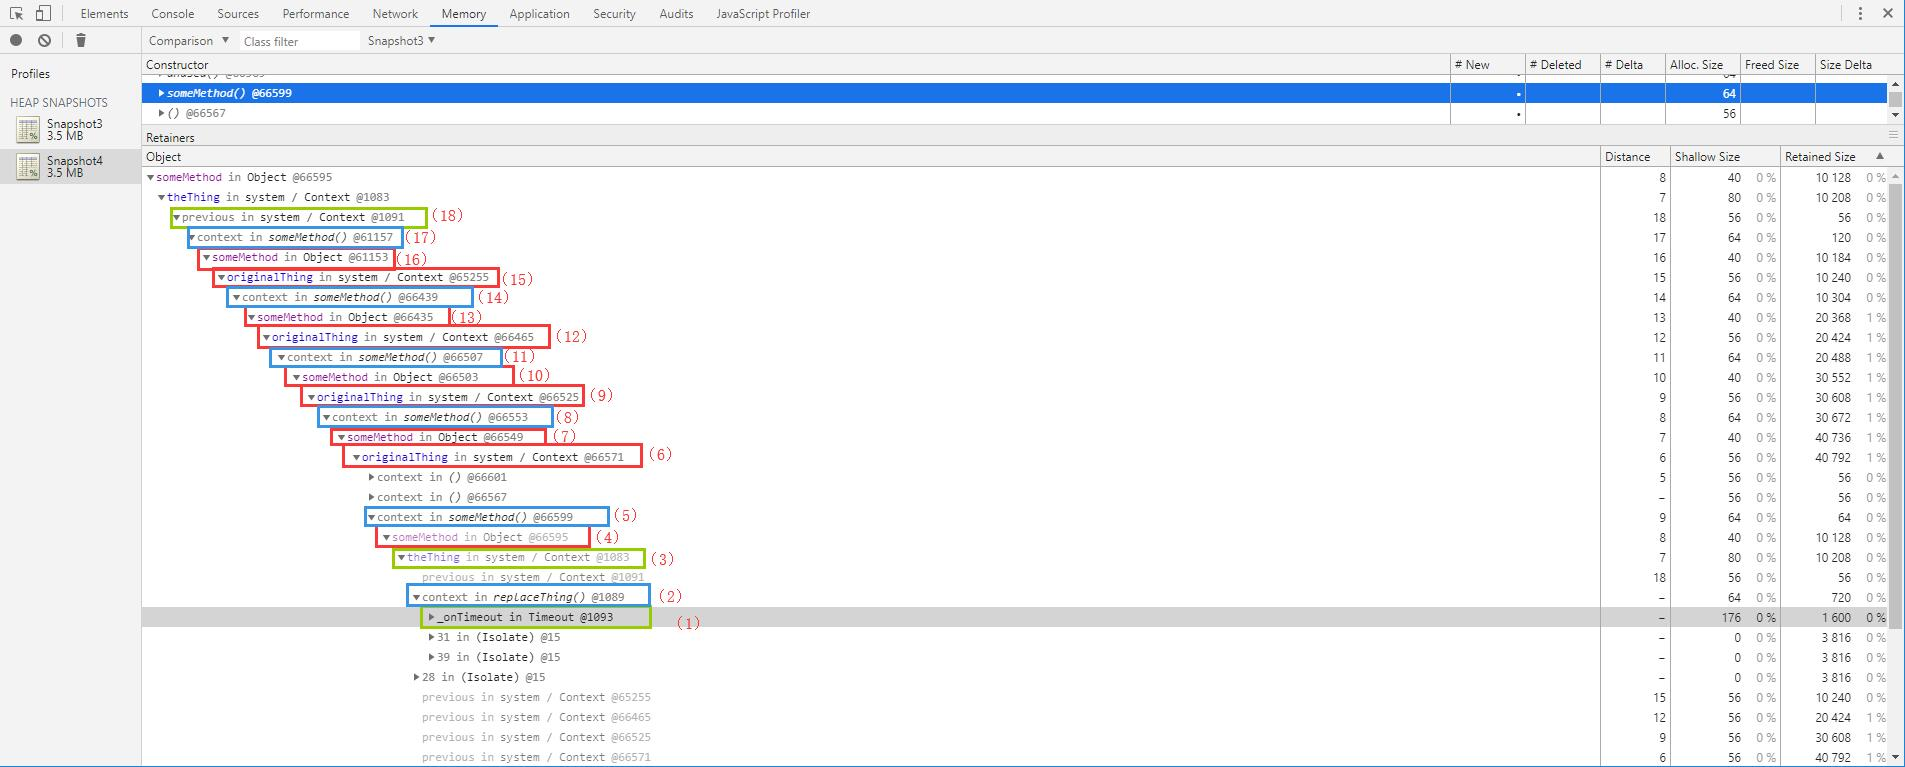
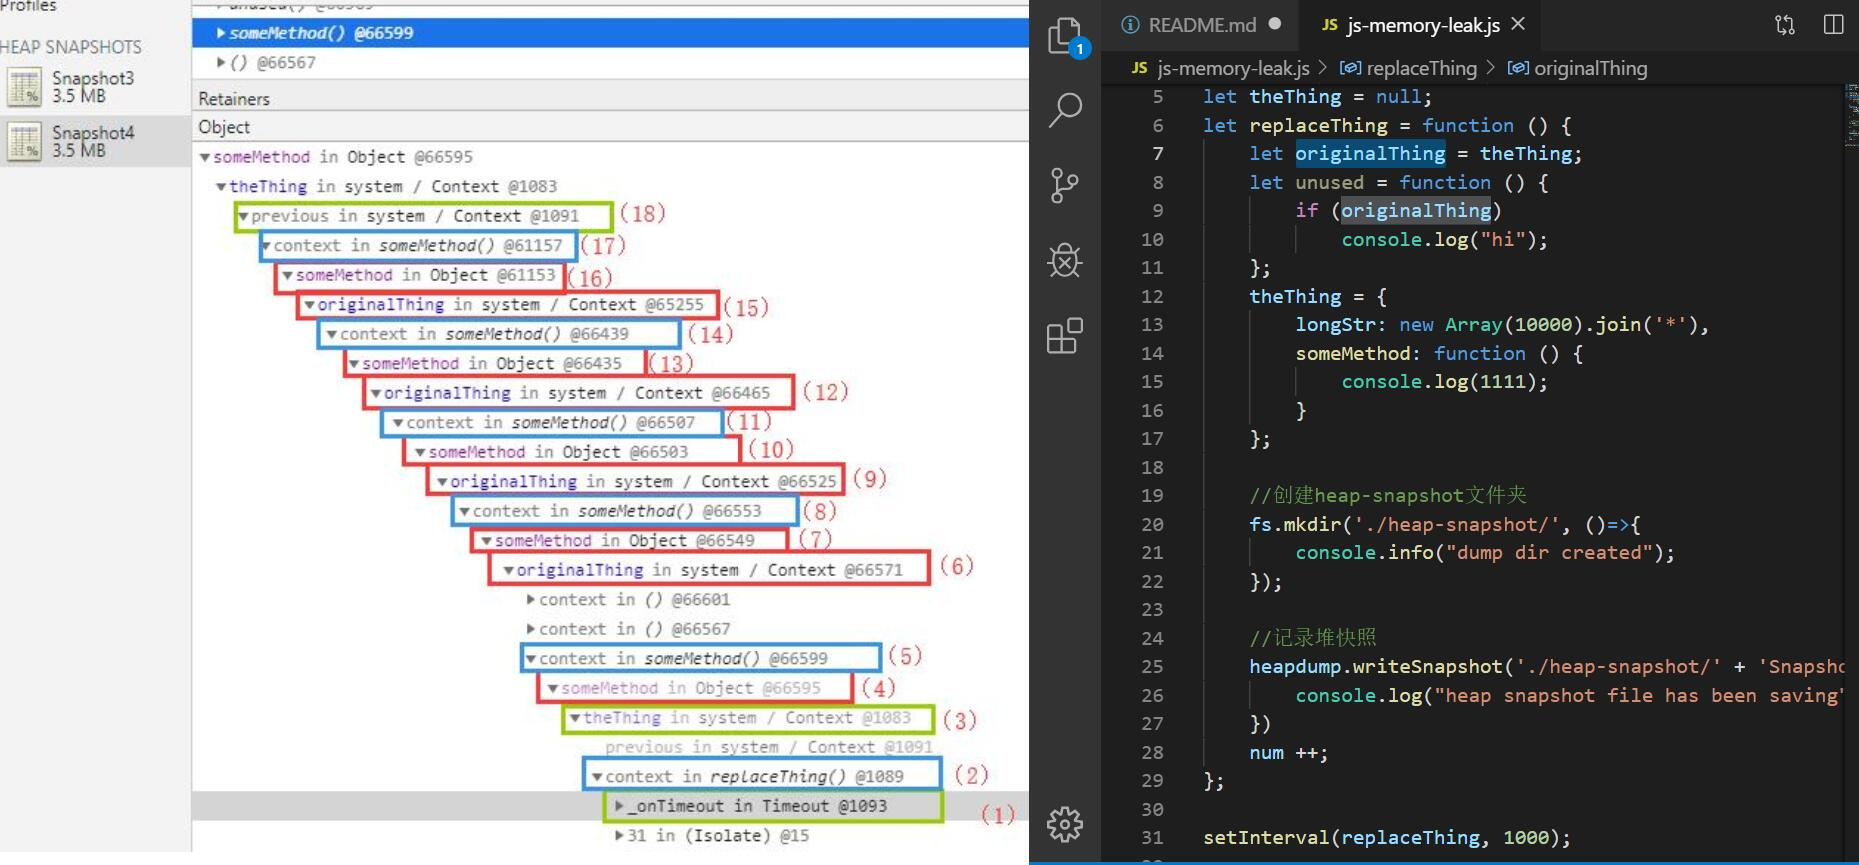
提交诡异的js记录笔记

diff --git a/strange-js/test.js b/strange-js/test.js
@@ -1,0 +1,13 @@
+console.log(NaN == NaN);  //输出 "false"
+
+console.log(new Boolean(false) && true);  //输出 "true"
+
+var oStringObject = new String("hello world");
+console.log(oStringObject.valueOf() == oStringObject.toString());	 //输出 "true"
+
+
+var oStringObject = "123456789";
+console.log(oStringObject.slice(-3));		//输出 "789"
+console.log(oStringObject.substring(-3));	//输出 "123456789"
+console.log(oStringObject.slice(3, -3));		//输出 "456"
+console.log(oStringObject.substring(3, -4));	//输出 "123"

diff --git a/js-memory-leak/closure-memory-leak/README.md b/js-memory-leak/closure-memory-leak/README.md
@@ -66,7 +66,7 @@ Snapshot3与Snapshot4对比如下：
 
 接下来分析闭包中的someMethod方法，下图是第一次调用replaceThing方法获取的堆快照：
 <img src="./images/analyse2.jpg">  
-如上图，someMethod@61157被theThing@61153引用，展开theThing@61153这个对象之后，可以看到：（1）它被Content@1083（即replaceThing函数上下文对象）引用；（2）previous在这里指：调用theThing@61153前一次的theThing（即replaceThing方法外定义的theThing<kbd>let theThing = null;</kbd>）；（3）previous被Content@1091（即replaceThing函数外的上下文对象）引用，Content@1083被repleceThing@1089引用。  
+如上图，someMethod@61157被theThing@61153引用，展开theThing@61153这个对象之后，可以看到：（1）它被Content@1083（即replaceThing函数上下文）引用；（2）previous在这里指：调用theThing@61153前一次的theThing（即replaceThing方法外定义的theThing<kbd>let theThing = null;</kbd>）；（3）previous被Content@1091（即replaceThing函数外的上下文）引用，Content@1083被repleceThing@1089引用。  
 **总结：** 有两个theThing的引用未释放，即theThing@61153与previous（<kbd>let theThing = null;</kbd>的theThing对象）  
 
 接下来继续查看第二次，第三次，第四次，第五次调用replaceThing方法获取的堆快照；  
@@ -74,19 +74,29 @@ Snapshot3与Snapshot4对比如下：
 <img src="./images/shot2.jpg" width="23%">
 <img src="./images/shot3.jpg" width="24%">
 <img src="./images/shot4.jpg" width="25%">  
-对比分析之后，总结replaceThing每调用一次，就会比上次调用多出一个previous对象。所以新的引用持续创建，旧的引用并未释放。
-接下来对这些不断增加的previous做深入分析。探讨为什么从第一次到第五次调用期间，不断创建出新的theThing对象，但是旧的theThing对象（previous）却一直占用内存未被回收，导致每调用一次就多出了一个previous对象（即旧的theThing）。  
+对比分析之后，总结replaceThing每调用一次，就会比上次调用多出一个previous对象。所以新的对象不断创建，旧的对象并未释放。
+接下来对这些不断增加的previous做深入分析。探讨为什么从第一次到第五次调用期间，不断创建出新的theThing对象，但是旧的theThing对象（previous）却一直占用内存未被回收，导致每次调用多出一个previous对象（即旧的theThing）。  
 备注：当创建新的theThing对象时，上一次创建的的theThing对象未被释放回收，会成为previous对象。  
+
 针对第五次快照Snapshot4的theThing最初生成的的previous展开：  
 <img src="./images/shot5.jpg">  
+>图中的context：一进入replaceThing，someMethod的作用域会创建一个>Context上下文，如图蓝色框框起来的都是replaceThing或someMethod对>Context上下文的直接引用。
+-------------------------------------------------------------
+我们可以看到，上图红色框的someMethod与originalThing形成了引用链。为什么会这样呢？虽然unused没有被使用，但是someMethod与unused分享闭包作用域，unused引用了originalThing，所以someMethod对originalThing也有了引用关系（细说：someMethod会直接创建一个Context上下文，这个Context会引用originalThing。形成someMethod-->Context-->originalThing引用链, 例如图中4-5-6，7-8-9， 10-11-12，13-14-15）。
 
+代码执行过程：
+第一次执行setInterval：调用replaceThing@1089,
 ### 2. string
 ### 3. Object
 ### 4. system/Context
 # 结论
 
+每一个闭包作用域携带一个指向大数组的间接的引用，造成严重的内存泄漏。
+在 replaceThing 的最后添加 originalThing = null 。
 
-
+每个函数都有一个词法环境，编译时产生词法作用域。
+函数执行时会产生Context上下文，这个上下文存储函数中的变量
+如果作用域本身嵌套在一个闭包中，那么新创建的Context 上下文将会指向父对象。 这可能会导致内存泄漏。---> 函数嵌套函数，内部函数将创建一个新上下文.
 
 
 

diff --git a/strange-js/README.md b/strange-js/README.md
@@ -1,0 +1,23 @@
+### NaN
+```javascript
+console.log(NaN == NaN);  //输出 "false"
+```
+### Boolean
+```javascript
+console.log(new Boolean(false) && true);  //输出 "true"
+```
+### valueOf toString
+```javascript
+var oStringObject = new String("hello world");
+console.log(oStringObject.valueOf() == oStringObject.toString());	 //输出 "true"
+```
+### 区别：slice substring
+```javascript
+var oStringObject = "123456789";
+console.log(oStringObject.slice(-3));		//输出 "789"
+console.log(oStringObject.substring(-3));	//输出 "123456789"
+console.log(oStringObject.slice(3, -3));		//输出 "456"
+console.log(oStringObject.substring(3, -4));	//输出 "123"
+```
++ substring()总把较小的数字作为起始位，较大的数字作为终止位
++ 对于负数参数，slice()方法会用字符串的长度加上参数，substring()方法则将其作为0处理（也就是说将忽略它）
